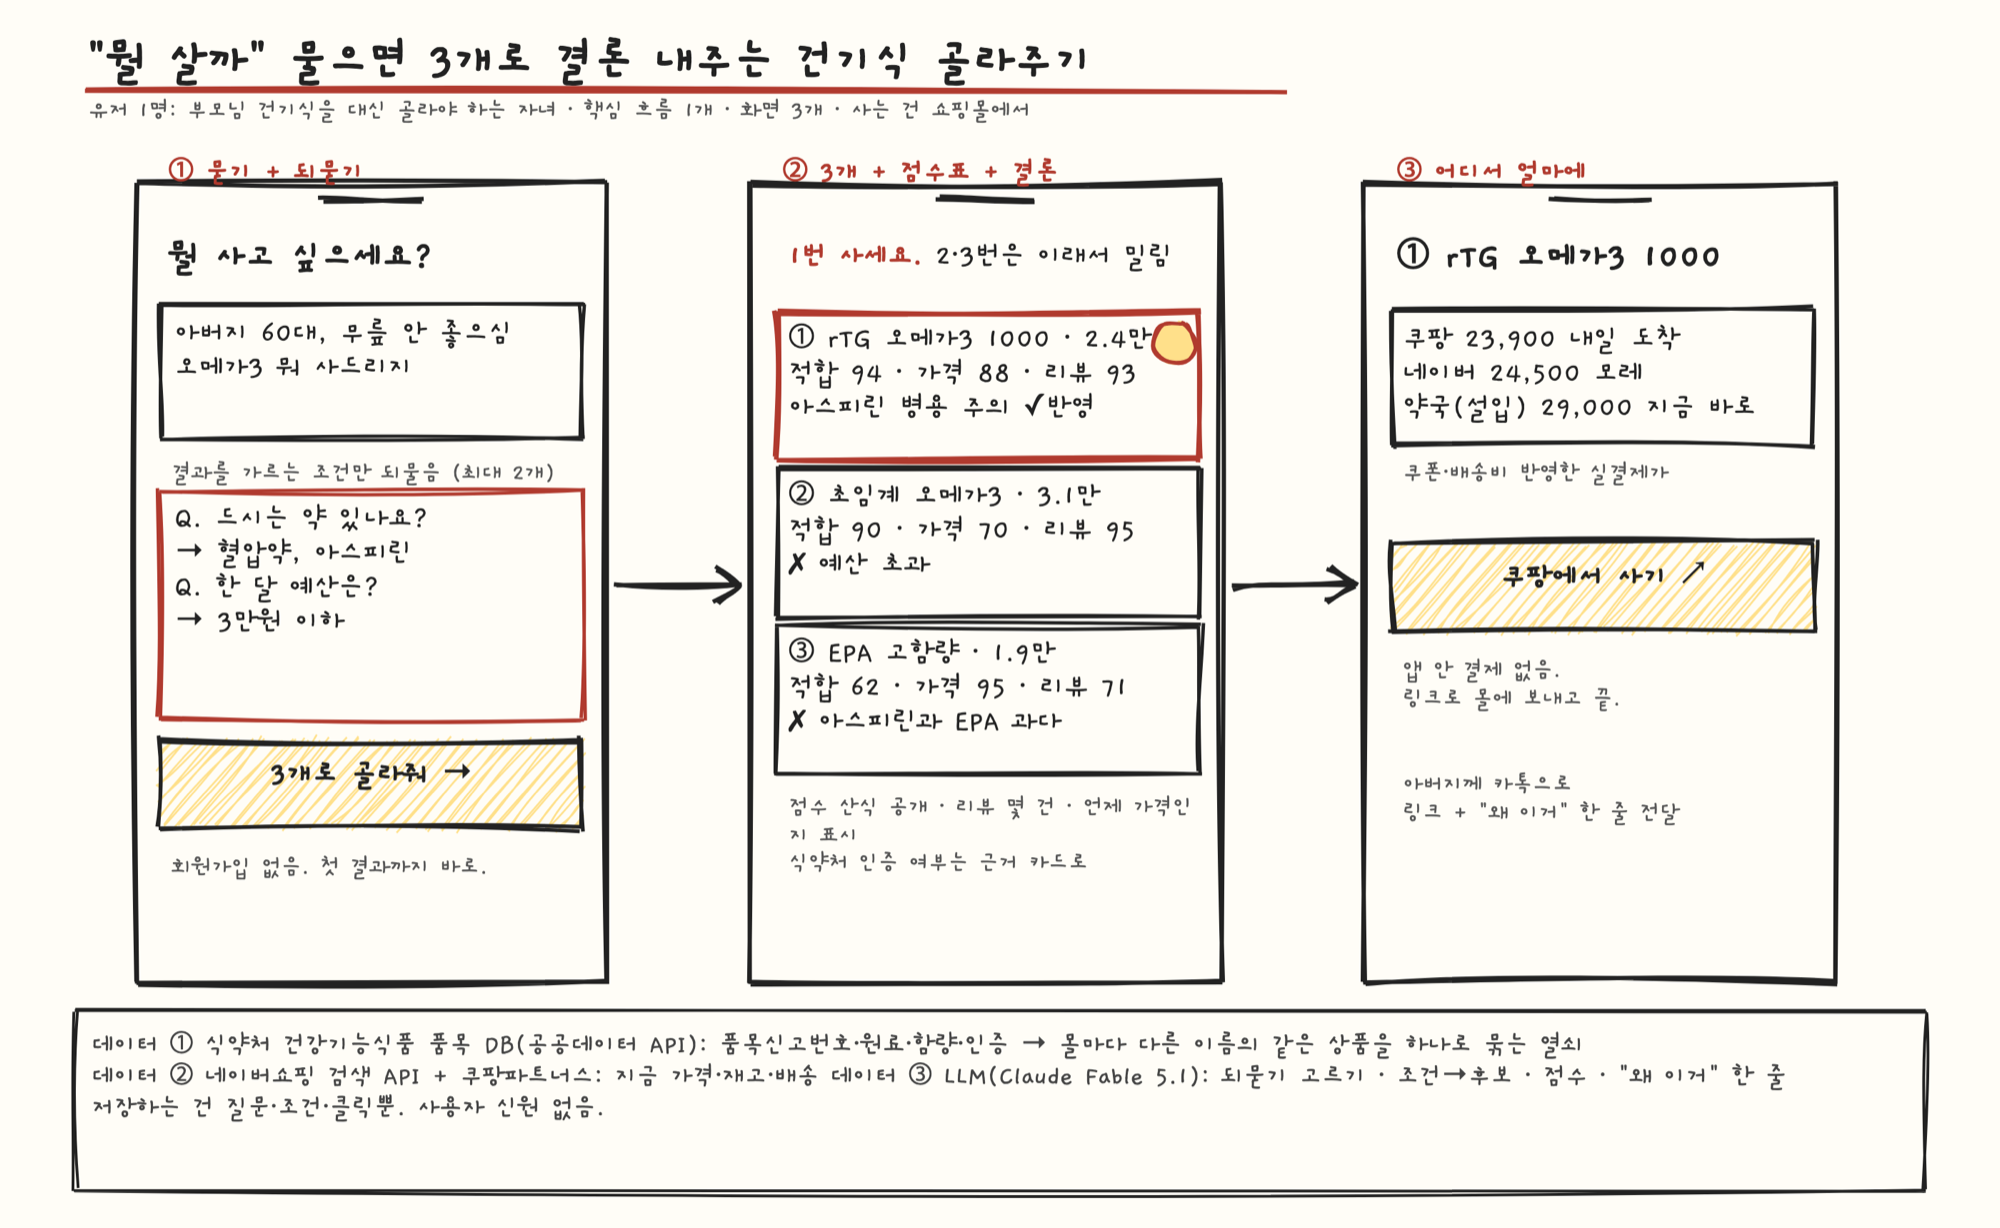
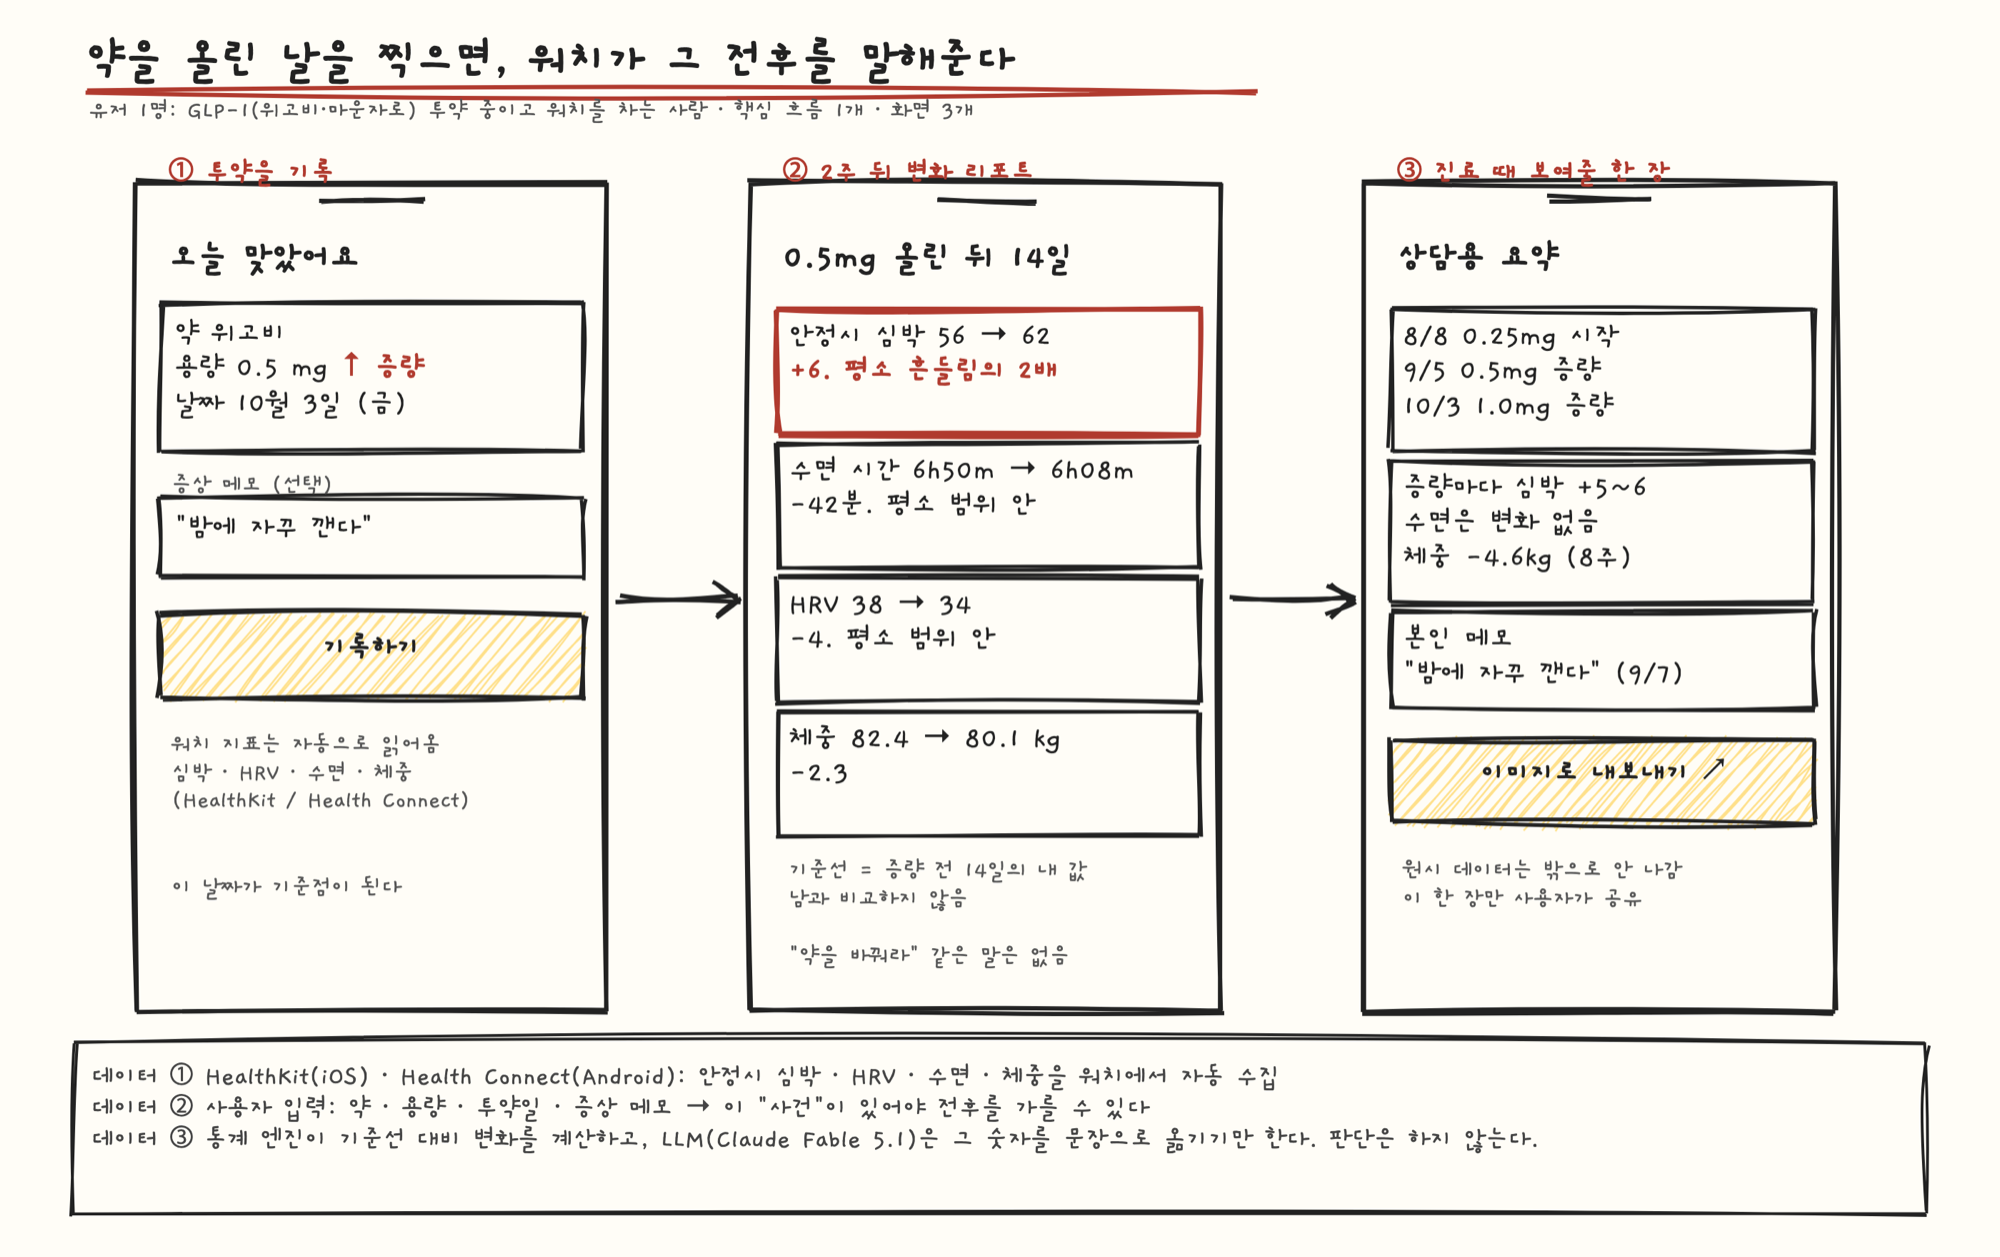
Pitch 전면 수정: 건기식 추천 -> GLP-1 투약 전후 몸 변화 기록
제품 방향이 바뀌어 Problem부터 No-gos까지 새로 씀.
- 유저: GLP-1 투약 중이고 워치를 차는 사람
- 흐름: 투약/증량 기록 -> 개인 기준선 대비 변화 리포트 -> 진료 상담용 한 장
- 지표는 HealthKit/Health Connect에서 자동 수집, 투약 사건만 사용자 입력
- 판정/약 비교/코호트 비교/건기식 추천은 전부 범위 밖

Changed region(s): [[0.031, 0.1238, 0.961, 0.9902], [0.031, 0.0309, 0.651, 0.0928], [0.868, 0.8664, 0.899, 0.8974]]

diff --git a/docs/01-pitch.md b/docs/01-pitch.md
@@ -2,34 +2,34 @@
 
 ## Problem
 
-8월 말, 아버지가 "무릎에 좋다는 오메가3 하나 사다 줘"라고 하셨다. 네이버에 "오메가3 추천"을 쳤더니 상위는 전부 광고와 제휴 블로그였다. 쿠팡으로 옮겨 상세페이지 다섯 개를 탭으로 열어 놓고 EPA·DHA 함량, rTG인지, 가격을 메모장에 옮겨 적었다. 30분쯤 지났을 때 아버지가 혈압약과 저용량 아스피린을 드신다는 게 생각났고, 오메가3를 같이 먹어도 되는지는 어느 상세페이지에도 없었다. 챗GPT에 물으니 "의사와 상담하세요"와 브랜드 이름 몇 개가 나왔다. 결국 쿠팡 판매량 1위를 그냥 샀다. 그게 아버지 조건에 맞는 건지는 지금도 모른다.
+8월에 아버지가 체중 때문에 위고비를 시작하셨다. 4주마다 용량을 올리는 약이라 0.25에서 0.5로 올린 주에 "잠을 설친다"고 하셨다. 아버지는 갤럭시워치를 차고 주무신다. 삼성헬스를 열어 보니 수면 시간과 안정시 심박이 날짜별로 다 있었다. 그런데 용량을 언제 올렸는지는 앱이 모른다. 결국 카톡을 거슬러 올라가 주사 맞은 날을 찾아 메모장에 적고, 삼성헬스 그래프를 손가락으로 짚어 가며 그 전후를 비교했다. 심박이 좀 오른 것 같기는 한데, 원래 이 정도로 흔들리는 건지 약 때문인지 알 수가 없었다. 다음 진료 때 의사에게 "잠을 잘 못 주무신대요"라고만 말씀드렸다.
 
 ## Who else?
 
-아버지 본인. 내가 사드리기 전에 직접 사신 마지막 건은 올봄 TV 홈쇼핑에서 본 관절 영양제를 전화로 주문한 것이었다. 성분도 가격도 비교하지 않았고, "귀찮아서 그냥 샀다"고 하셨다. 그 뒤로는 나한테 넘기신다. 비교하는 일 자체가 부담이라 결정을 미루거나 남에게 넘기는 것이다.
+아버지 본인. 같은 주에 "이 약이 나한테 맞는 건지 모르겠다"고 하셨다. 그래서 하신 일은 블로그 검색이었다. 남의 후기를 읽고 "다들 이렇대"로 넘어가셨다. 본인 워치에 답이 될 데이터가 쌓여 있는데 그걸 볼 방법이 없어서, 모르는 사람의 경험담으로 대신한 것이다.
 
 ## Existing solutions
 
-- 네이버쇼핑·쿠팡 검색: 수백 개를 나열한다. 광고가 먼저고, 성분 비교는 내가 손으로 해야 한다.
-- 챗GPT·퍼플렉시티: 일반론과 브랜드 나열. 지금 가격, 재고, 내 조건(복용약·예산)을 반영한 결론이 없다.
-- 네이버 AI 쇼핑 에이전트: 조건형 질문을 받지만 네이버 안 상품·리뷰만 본다.
-- 약국: 약사가 있는 것만 권한다. 비교가 아니고, 비싸다.
+- 삼성헬스·애플 건강: 지표는 다 있지만 "약을 올린 날"이라는 사건이 없다. 전후를 가를 기준선이 없으니 비교가 안 된다.
+- 복약 알림 앱: 먹었는지 체크만 한다. 몸이 어떻게 변했는지는 다루지 않는다.
+- 블로그·카페 후기: 남의 몸 이야기다. 내 평소 변동폭을 모른다.
+- 진료: 2~3개월에 한 번, 기억에 의존한 말로 전달된다.
 
-공통점은 "골라 주는" 곳이 없다는 것. 나열하거나, 일반론을 말하거나, 한 곳 물건만 판다.
+지표와 사건이 따로 놀아서, 답이 될 데이터가 이미 있는데도 아무도 답을 못 본다.
 
 ## Solution
 
-질문창 하나. "아버지 60대, 무릎 안 좋으심, 오메가3 뭐 사드리지"라고 치면 결과를 가르는 조건 두 개만 되묻는다(드시는 약, 예산). 그러면 수백 개 중 3개를 골라 점수표(적합도·가격·리뷰 신뢰도)와 함께 "1번 사세요, 2·3번은 이래서 밀렸습니다"라고 결론을 낸다. 누르면 그 상품을 지금 제일 싸게 파는 몰의 실결제가와 배송일이 나오고, 몰로 보낸다. 사는 건 몰에서 한다.
+투약을 기록하면 워치 데이터와 겹쳐 보여 주는 앱. 약 이름과 용량, 맞은 날짜를 넣으면 그 날이 기준점이 된다. 워치 지표는 HealthKit과 Health Connect에서 자동으로 읽는다. 증량 2주 뒤 주간 리포트가 온다. "안정시 심박 +6, 평소 흔들림의 2배", "수면 시간 -42분, 평소 범위 안"처럼 개인 기준선 대비로만 말한다. 마지막 화면은 의사 상담용 한 장이고, 공유 버튼으로 내보낸다.
 
 ![](sketch.png)
 
-데이터는 세 곳에서 온다. 식약처 건강기능식품 품목 DB(공공데이터 API)에서 품목신고번호·원료·함량·인증을 가져와 몰마다 이름이 다른 같은 상품을 하나로 묶는다. 네이버쇼핑 검색 API와 쿠팡파트너스에서 지금 가격·재고·배송을 가져온다. LLM(Claude Fable 5.1)이 되물을 조건을 고르고, 조건에 맞는 후보를 점수 매기고, "왜 이거"를 한 줄로 쓴다. 저장하는 건 질문·조건·클릭뿐이고 회원가입은 없다.
+지표는 HealthKit(iOS)과 Health Connect(Android)에서 받는다. 투약과 증상은 사용자가 직접 넣는다. 기준선 대비 변화는 통계 엔진이 계산하고, LLM은 그 숫자를 문장으로 옮기는 일만 한다.
 
 ## No-gos
 
-- 앱 안 결제와 장바구니. 결제는 몰로 보낸다.
-- 브랜드용 대시보드(우리 상품이 왜 몇 번째로 골라졌는지). 소비자 화면만 만든다.
-- 가격 알림, 재구매 알림, 구독. 한 번 묻고 한 번 사면 끝.
-- 건기식 외 카테고리. 오메가3·관절·유산균처럼 식약처 품목 키가 있는 것만.
-- 기능성 문구 생성. "무릎에 좋다"류 표현은 표시광고 규제 대상이라 식약처가 인정한 기능성 문구만 그대로 보여 준다. 복용약 상호작용은 경고까지만 하고 판단은 하지 않는다.
-- 로그인, 프로필, 대화 기록.
+- **판정하지 않는다.** "이 약이 맞다", "바꿔라"를 쓰지 않는다. 숫자와 개인 기준선만 보여 주고 해석은 본인과 의사가 한다. 이걸 넘으면 의료기기가 된다.
+- **전문의약품을 비교하거나 권하지 않는다.** 약사법상 대중 광고와 우열 표현이 금지된다.
+- 다른 사용자와 비교하지 않는다. 코호트 분위는 표본이 쌓여야 의미가 있다.
+- 건강기능식품 추천을 넣지 않는다.
+- 오우라링, 연속혈당, 혈압계를 붙이지 않는다. 워치만.
+- 원시 건강 데이터를 외부로 내보내지 않는다. 공유는 사용자가 만든 리포트 한 장뿐이다.
